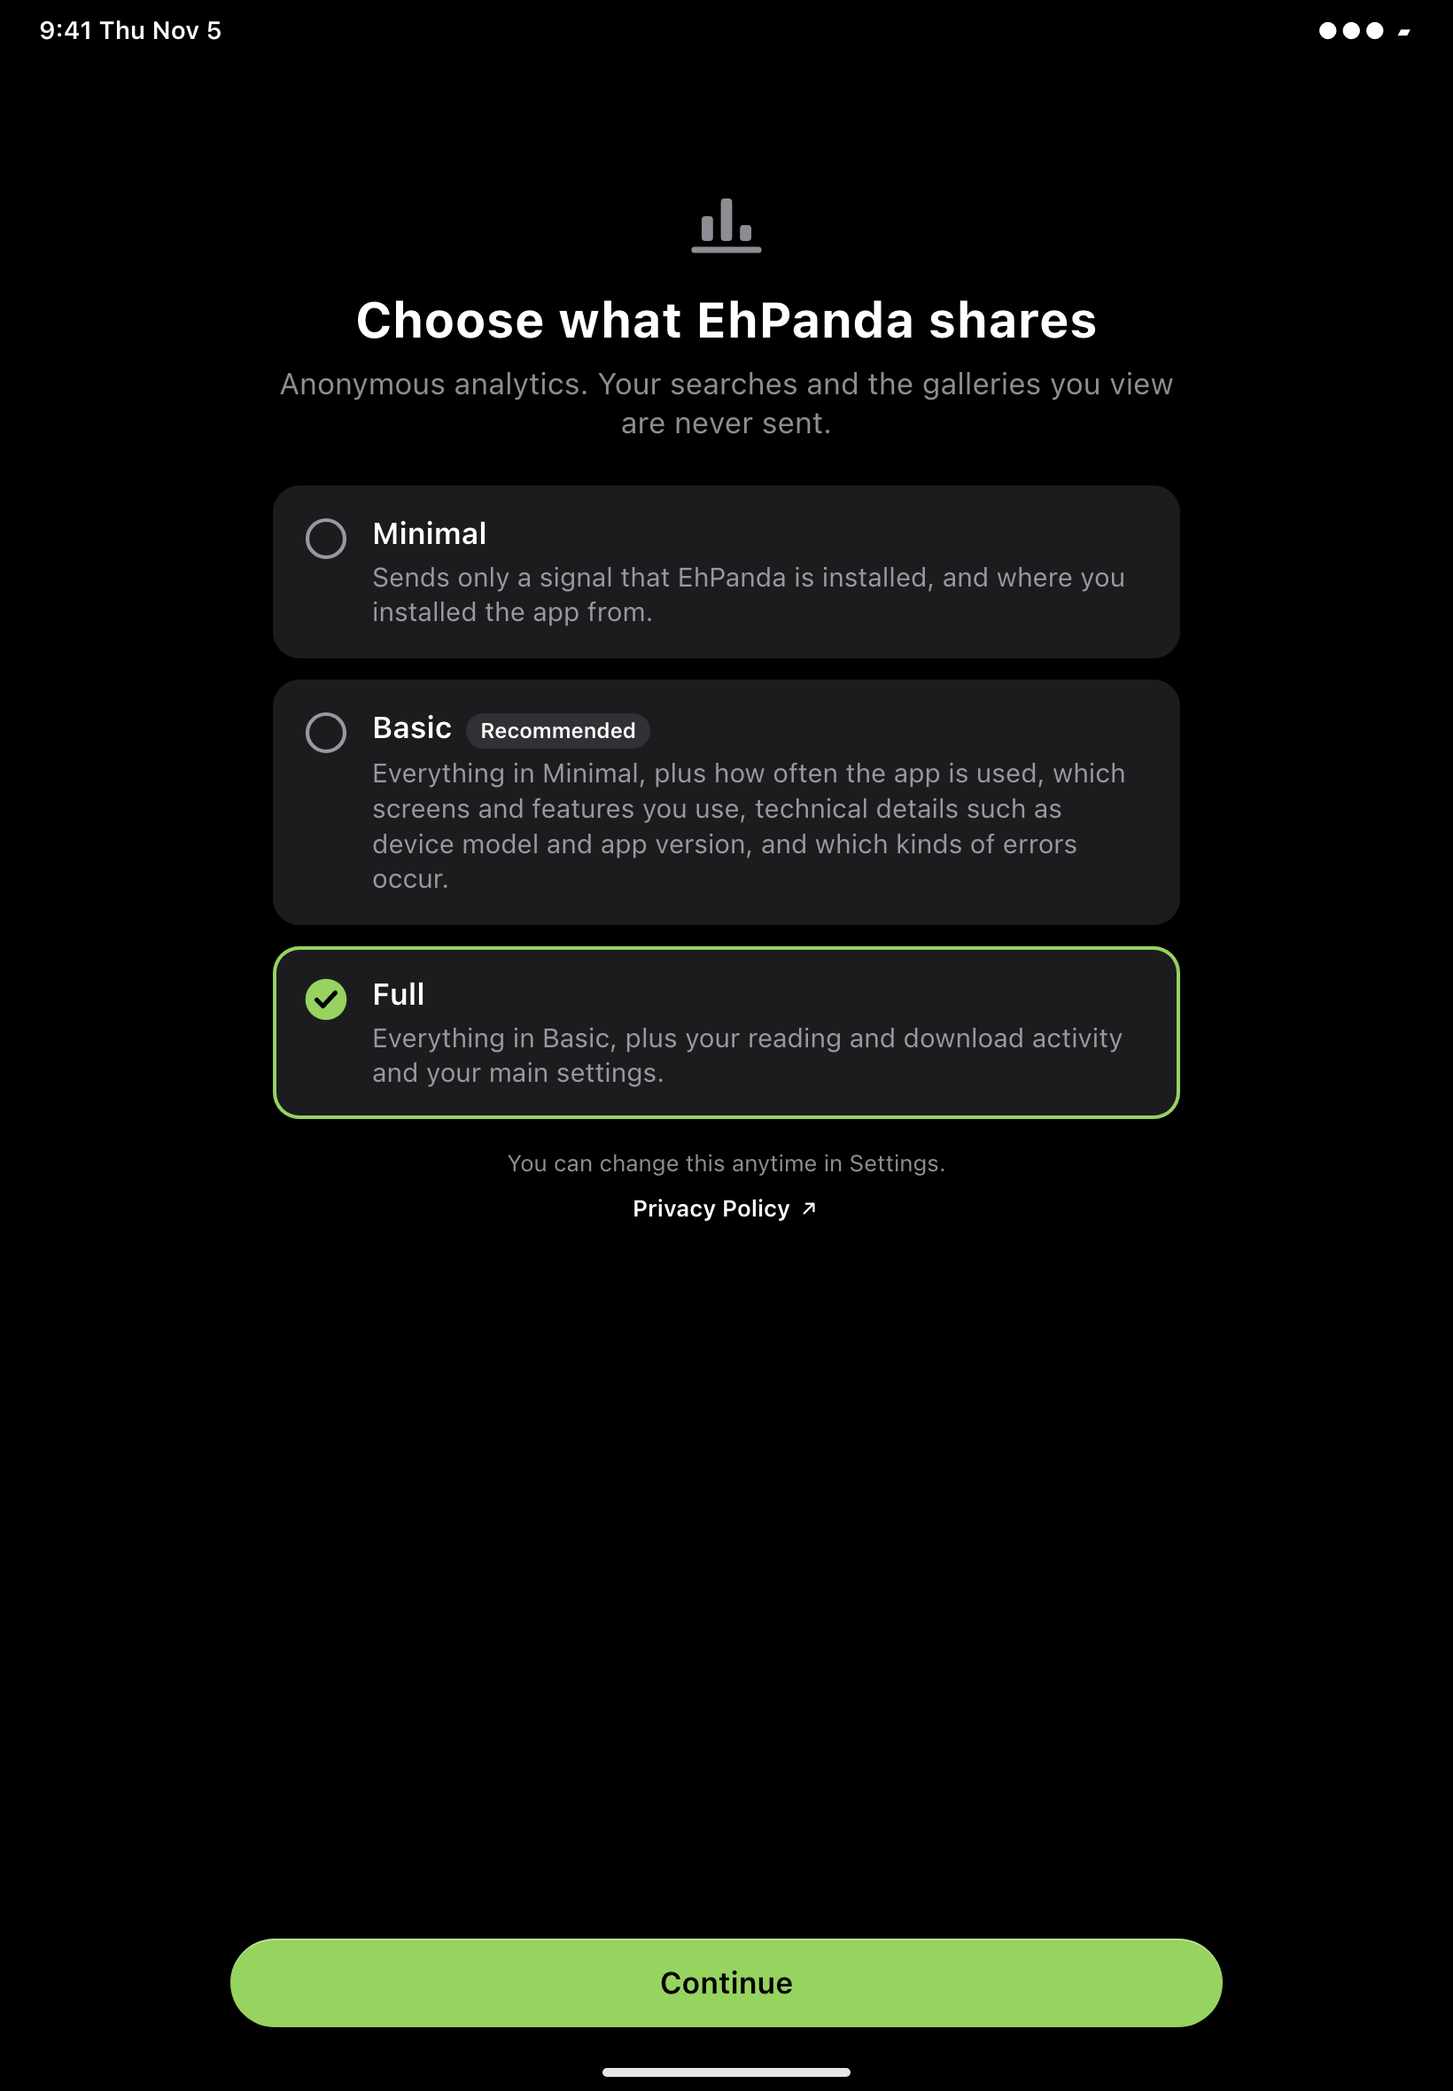
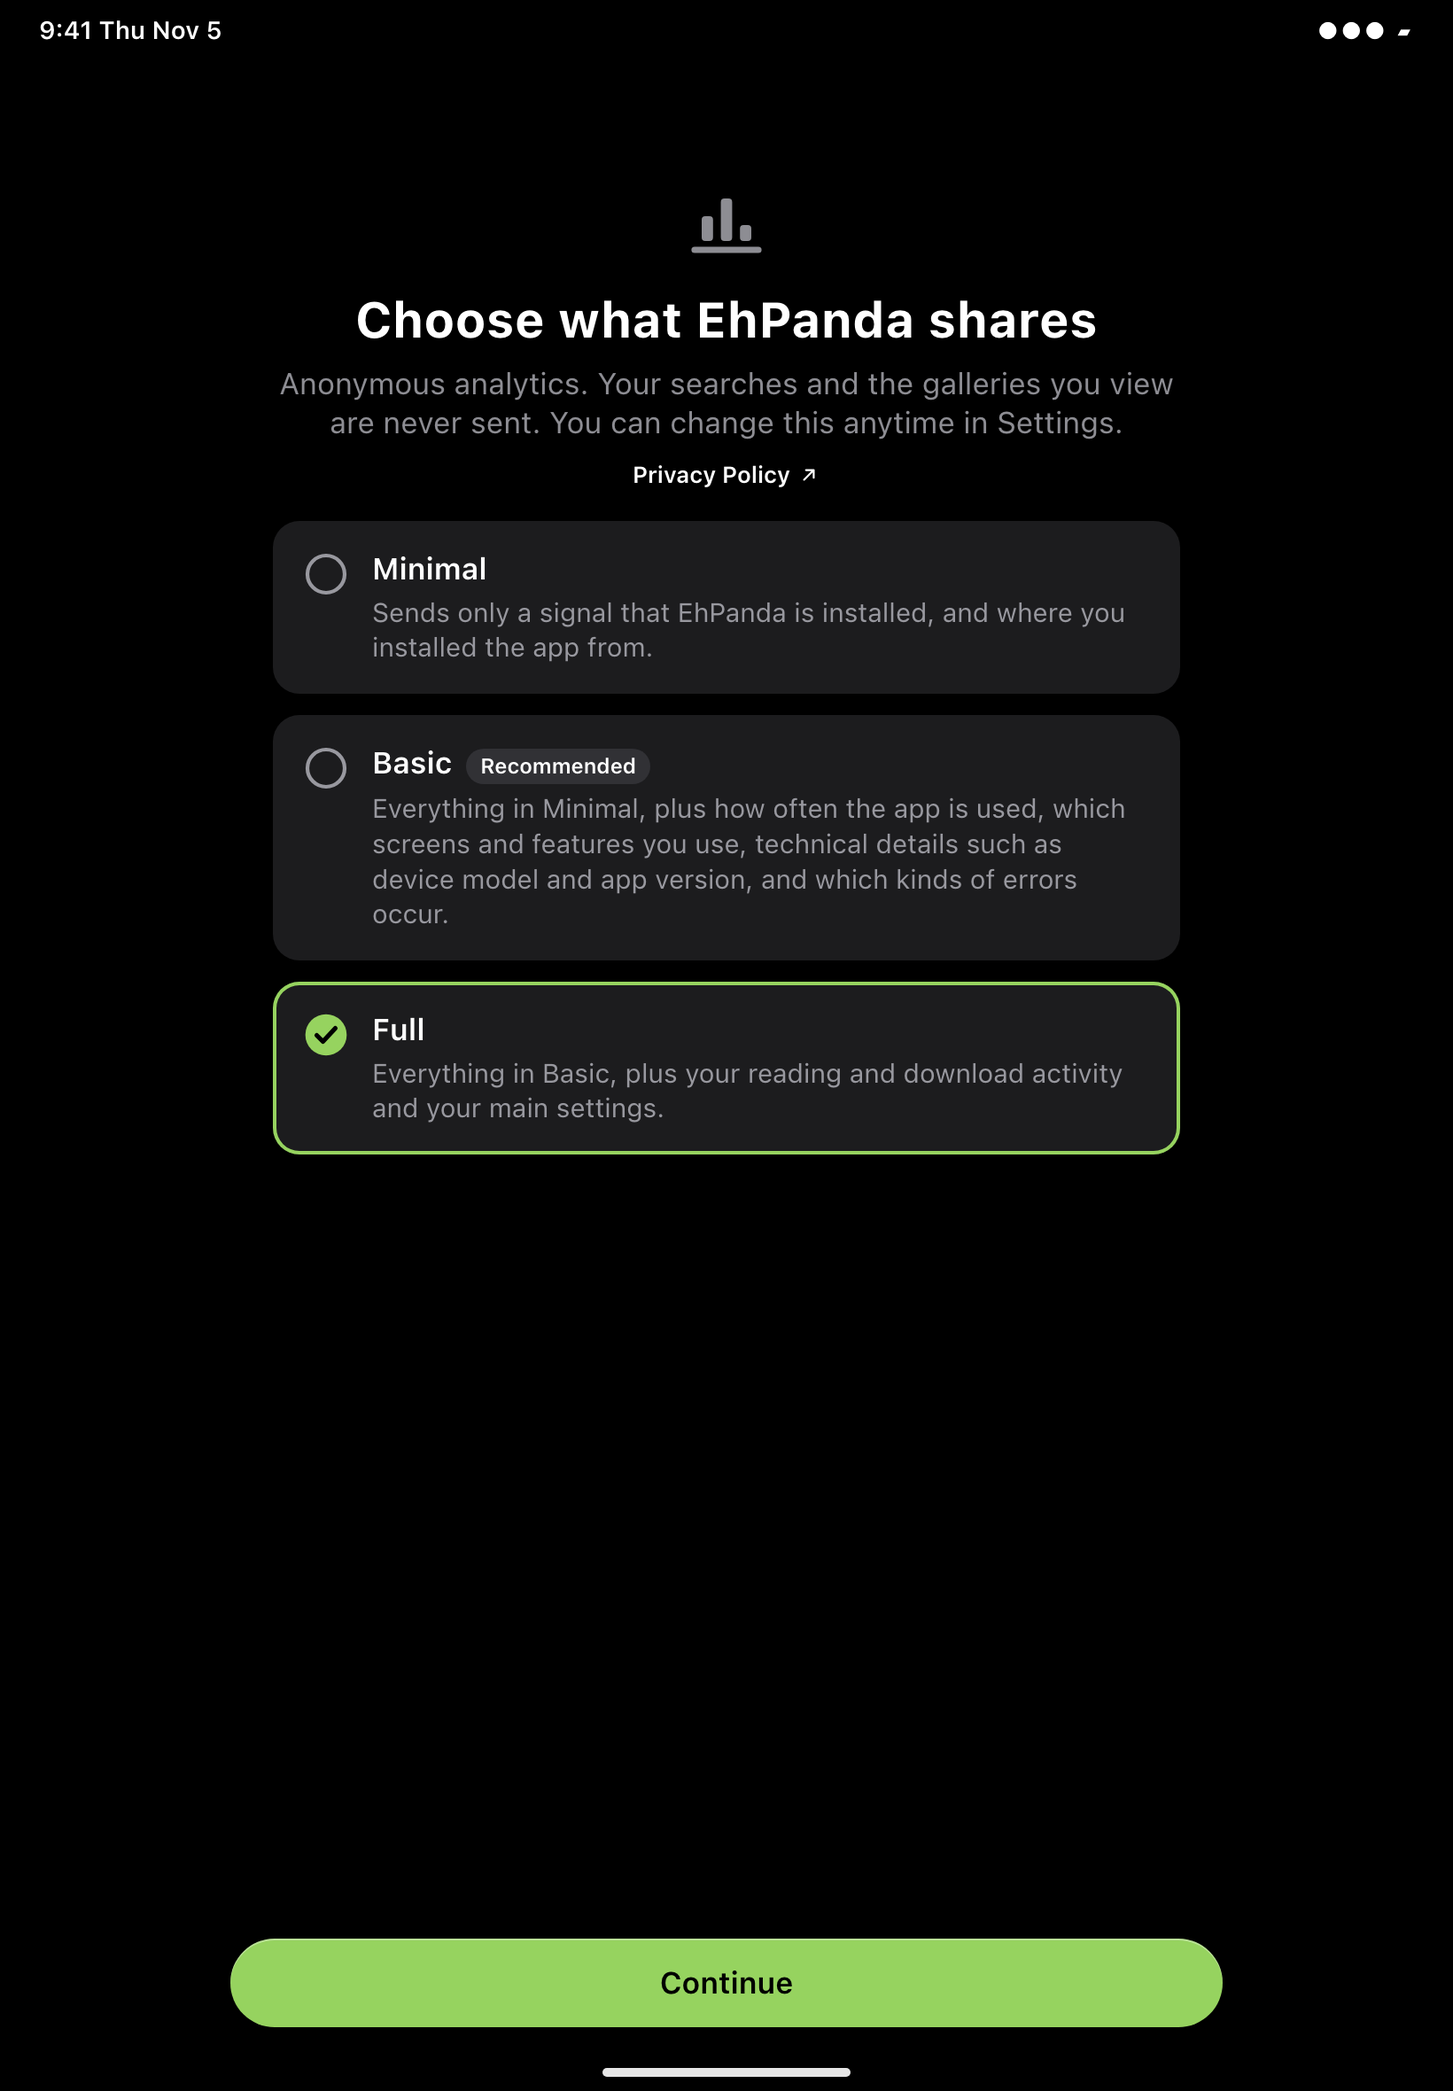
docs(18): join the analytics footer to the intro and move the privacy link up
Owner msg 1898, designer msg 1899 (D-06g): consent.footer follows consent.body in one paragraph, the Privacy Policy link sits under it above the cards. Layout only; no string changes. Refreshed mockups 03, 04, 18 and 21; 18-09 updated to match.

Changed region(s): [[0.1866, 0.1856, 0.8085, 0.5877]]

diff --git a/.planning/phases/18-in-app-3-0-readiness-age-wall-analytics-choice-comment-moder/18-09-PLAN.md b/.planning/phases/18-in-app-3-0-readiness-age-wall-analytics-choice-comment-moder/18-09-PLAN.md
@@ -30,7 +30,7 @@ must_haves:
     - "Every UI task here follows the committed `18-UI-SPEC.md` (the final spec, msg 1826, with the C-3 title rule) as the design contract; layout calls are the designer's and are not changed in execution (D-17, D-17a)."
     - "Until both answers exist, `RootView` renders `FirstLaunchGateView` instead of `TabBarView`; nothing of the app is rendered behind it, and it has no navigation bar, back, close or skip (UI-SPEC C-1, D-03, DD-06)."
     - "The age wall matches UI-SPEC C-2: icon, title, body, checkbox card with the approved declaration, Continue dimmed until ticked with `age_wall.continue_hint` as its VoiceOver hint, footnote always visible; no \"No\", no exit, no date picker, no age number, no \"18+\" (D-04, D-05)."
-    - "The analytics choice matches UI-SPEC C-3: three equal `ChoiceCard`s in the order Minimal, Basic, Full with none selected, Continue dimmed until one is picked, `consent.footer`, and a Privacy Policy link to `contact.privacy_policy`; Minimal's card shows the msg-1818 description (D-06a, D-06c) and Basic's and Full's cards the msg-1880 Revision 6 descriptions (D-06f); the intro under the title is the msg-1864 `consent.body`, \"Anonymous analytics. Your searches and the galleries you view are never sent.\" (D-06e)."
+    - "The analytics choice matches UI-SPEC C-3: three equal `ChoiceCard`s in the order Minimal, Basic, Full with none selected, Continue dimmed until one is picked, the intro and `consent.footer` joined in one `Text` as one paragraph with the Privacy Policy link to `contact.privacy_policy` right under it and above the cards (D-06g, owner msg 1898; nothing sits under the cards); Minimal's card shows the msg-1818 description (D-06a, D-06c) and Basic's and Full's cards the msg-1880 Revision 6 descriptions (D-06f); the intro under the title is the msg-1864 `consent.body`, \"Anonymous analytics. Your searches and the galleries you view are never sent.\" (D-06e)."
     - "D-06f (owner msg 1882): Basic is marked Recommended, not pre-selected. Initially no card is selected and Continue is disabled until a level is tapped; Basic's card, and only Basic's, shows `consent.level.recommended` as UI-SPEC C-3 specifies: a neutral grey capsule (`.caption.weight(.semibold)`, `.primary` text on `tertiarySystemFill`) in the name row after the name, never accent and the same whether Basic is selected or not, dropping under the name at accessibility sizes (`ViewThatFits`), and read by VoiceOver as part of the card (\"Basic, Recommended, ...\"). The order stays Minimal, Basic, Full."
     - "No request reaches the stub protocol between launch and the age wall's Continue (request log empty), and the tab content appears only after the analytics Continue."
     - "UI-SPEC C-3 title rule (owner msg 1822): the age wall and analytics titles are plain `Text` with no `\\n`, `.minimumScaleFactor`, `.lineLimit` or fixed width; in en, de, ko, ja, zh-Hans and zh-Hant at default size and AX5 their last line never holds a single word (zh/ja/ko: never fewer than two characters), checked on simulator screenshots."
@@ -148,7 +148,10 @@ IN-03 import moves back out with that use and the summary says so).
        in-content button and footnote at AX sizes, transitions with Reduce Motion forms), `AgeWallView` and
        `AnalyticsChoiceView` exactly per C-2/C-3. Titles: plain `Text(…)` with `.title.bold()`, centred,
        `.isHeader`; no `\n`, `.minimumScaleFactor`, `.lineLimit` or fixed width (C-3 line-break rule). Initial
-       VoiceOver focus on the title (`AccessibilityFocusState`).
+       VoiceOver focus on the title (`AccessibilityFocusState`). Analytics intro (C-3 items 3 to 5, D-06g, owner
+       msg 1898): `consent.body` and `consent.footer` in one `Text`, joined by one space in en, de and ko and by
+       nothing in ja, zh-Hans and zh-Hant (pick the separator from the resolved app language, not by editing either
+       string); the Privacy Policy link 8pt under it; the cards 16pt under the link; nothing under the cards.
     3. In `RootView`, render `FirstLaunchGateView` while `firstLaunch.step != .complete`, own `onOpenURL` there and
        send `.openURL` (18-02 queue).
     4. Extend `FirstLaunchGateTests` if the views needed new reducer actions (e.g. `declarationToggled`,
@@ -182,9 +185,11 @@ IN-03 import moves back out with that use and the summary says so).
        `xcrun xcresulttool export attachments` into a temporary directory outside the repo.
     3. Inspect every screenshot (48 = 2 devices × 6 locales × 2 sizes × 2 screens) and record in the summary a
        table: device, locale, size, screen, the title's last line as rendered, pass/fail. For the analytics screen
-       also record the intro's (`consent.body`, D-06e, owner msg 1864) line count: it is expected to fit two lines on
-       iPhone at default size in en (designer msgs 1846, 1850); German may wrap to three on the smallest iPhones,
-       which is acceptable; AX5 may wrap freely. An en intro longer than two lines on `$PHONE` at default size is
+       also record the intro's line count (`consent.body` and `consent.footer` joined as one paragraph, D-06e, D-06g,
+       owner msgs 1864, 1898): it is expected to fit three lines on iPhone at default size in en (designer msg 1899);
+       German may wrap to four on the smallest iPhones, which is acceptable; AX5 may wrap freely. Also check that
+       the Privacy Policy link is visible above the cards without scrolling at default size. An en intro longer than
+       three lines on `$PHONE` at default size is
        reported to the lead for the designer, not fixed by editing the string, scaling or truncating.
     4. A failure is not fixed by changing a string, adding `\n`, scaling or a fixed width. Try a layout-only fix the
        spec allows (for example the column's horizontal padding within the spacing scale); if none passes, stop and
@@ -196,7 +201,7 @@ IN-03 import moves back out with that use and the summary says so).
   </verify>
   <acceptance_criteria>
     - The summary table has 48 rows, all pass: no title's last line is a single word (zh/ja/ko: at least two characters), in any locale, at default size and AX5.
-    - The analytics rows record the intro's line count; en at default size on `$PHONE` is two lines (or the case is reported to the lead).
+    - The analytics rows record the intro's line count; en at default size on `$PHONE` is three lines and the Privacy Policy link shows above the cards without scrolling (or the case is reported to the lead).
     - No screenshot is committed.
   </acceptance_criteria>
   <done>Both first-launch titles break acceptably in every shipped language and text size.</done>

diff --git a/.planning/phases/18-in-app-3-0-readiness-age-wall-analytics-choice-comment-moder/18-UI-SPEC.md b/.planning/phases/18-in-app-3-0-readiness-age-wall-analytics-choice-comment-moder/18-UI-SPEC.md
@@ -91,7 +91,7 @@ Points, multiples of 4. Values marked "existing" are the app's own and are not c
 | Token | Value | Usage |
 |-------|-------|-------|
 | xs | 4pt | Level name → level description; text → inline symbol |
-| sm | 8pt | Title → body; Continue bar top inset; between Show and Unblock; footnote → Privacy Policy link |
+| sm | 8pt | Title → body; body → Privacy Policy link (analytics); Continue bar top inset; between Show and Unblock |
 | md-12 | 12pt | Symbol → text inside cards; between level cards; Continue → footnote |
 | md | 16pt | Card inner padding; bottom bar bottom inset (above the safe area); list row padding (system) |
 | lg | 24pt | Screen side margins on the first-launch screens; icon → title; body → cards (analytics) |
@@ -123,7 +123,7 @@ the system scales between.
 | Button | `.headline` | 17pt | 53pt | semibold | Continue |
 | Collapsed-row label | `.subheadline` | 15pt | 49pt | regular, `.secondary` | "Comment from a user you've blocked" |
 | Small pill buttons | `.subheadline` | 15pt | 49pt | semibold | Show, Unblock, Hide (`.controlSize(.small)` bordered) |
-| Footnote | `.footnote` | 13pt | 44pt | regular, `.secondary` | Age-wall footnote, `consent.footer`, Settings footers |
+| Footnote | `.footnote` | 13pt | 44pt | regular, `.secondary` | Age-wall footnote, Settings footers (`consent.footer` now joins the analytics body, C-3) |
 | Link | `.footnote` | 13pt | 44pt | semibold, `.primary` | Privacy Policy on the analytics screen |
 | Empty state title | `ContentUnavailableView` default | — | — | system | Blocked Users empty |
 
@@ -276,8 +276,15 @@ your mind, and a shared Continue keeps both first-launch screens one pattern.
    locale's string, no `.minimumScaleFactor`, no `.lineLimit`, no fixed width on the title. Acceptance: in every
    locale and every text size, the title's last line holds at least two words (zh/ja/ko: at least two characters).
    Same rule for the age wall title (C-2) and the Blocked Users empty-state title.
-3. 8pt · Body `consent.body`, `.body`, `.secondary`, centred.
-4. 24pt · **Three `ChoiceCard`s**, order Minimal, Basic, Full (owner's order; Minimal replaces None, owner msg 1795), 12pt apart, all identical in size rules,
+3. 8pt · Body: **`consent.body` and `consent.footer` in one `Text`**, as one paragraph (owner msg 1898: the footer sat
+   below the cards, off screen on most phones). Join with one space in en/de/ko, no space in ja/zh-Hans/zh-Hant
+   (both strings end in full-width punctuation there). `.body`, `.secondary`, centred. Both strings stay as
+   approved; nothing is reworded. iPhone default size: 3 lines in en.
+4. 8pt · Privacy Policy link, moved up from below the cards: `Link(consent.privacy_link, destination: privacyURL)` with a trailing `arrow.up.right` (`.imageScale(.small)`,
+   AX-hidden) — `.footnote.weight(.semibold)`, `.primary`, centred, 44pt min hit height. Opens in the default browser
+   (same as every other external link in the app). Allowed here: the age wall is already confirmed.
+   VoiceOver reads it right after the body, before the cards.
+5. 16pt · **Three `ChoiceCard`s**, order Minimal, Basic, Full (owner's order; Minimal replaces None, owner msg 1795), 12pt apart, all identical in size rules,
    type and colour while unselected — the only difference is Basic's Recommended label below; no different weight or colour.
    - Card: `secondarySystemGroupedBackground`, radius 15, padding 16, full width, whole card tappable,
      `.hoverEffect(.highlight)` as C-2.
@@ -298,11 +305,7 @@ your mind, and a shared Continue keeps both first-launch screens one pattern.
    - **Order stays Minimal, Basic, Full** (layout call, Ato msg 1883). Reason: the descriptions are a ladder
      ("Everything in Minimal, plus…", "Everything in Basic, plus…") that only reads top-down in that order, and the
      label is what makes Basic stand out, not its position.
-5. 16pt · `consent.footer`, `.footnote`, `.secondary`, centred.
-6. 8pt · `Link(consent.privacy_link, destination: privacyURL)` with a trailing `arrow.up.right` (`.imageScale(.small)`,
-   AX-hidden) — `.footnote.weight(.semibold)`, `.primary`, centred, 44pt min hit height. Opens in the default browser
-   (same as every other external link in the app). Allowed here: the age wall is already confirmed.
-7. Continue in the bar (C-1) — `.disabled(selection == nil)`. No hint string is approved for this screen, so none.
+6. Continue in the bar (C-1) — `.disabled(selection == nil)`. No hint string is approved for this screen, so none.
 
 On Continue: store the level, start the SDK only if Basic/Full (DD-09), crossfade to the app.
 

diff --git a/.planning/phases/18-in-app-3-0-readiness-age-wall-analytics-choice-comment-moder/18-CONTEXT.md b/.planning/phases/18-in-app-3-0-readiness-age-wall-analytics-choice-comment-moder/18-CONTEXT.md
@@ -5,7 +5,7 @@
 **Amended:** 2026-11-05, during planning: D-06a, D-06b, DD-09a (owner msgs 1795, 1796, 1805; analytics "Minimal"),
 D-06c (owner msgs 1812, 1818; the install signal carries the install source), D-06d (owner msgs 1830, 1839; Basic's
 description builds on Minimal), D-06e (owner msgs 1844, 1854, 1864; the short analytics intro), D-06f (owner msgs 1869, 1880, 1882; screens and
-features move to Basic, Basic marked Recommended), D-14a (owner msg 1795; Blocked Users in Account settings), D-17a (UI-SPEC delivered, msgs 1791, 1803, 1807, 1820, 1826, 1843, 1866, 1886). The
+features move to Basic, Basic marked Recommended), D-06g (owner msg 1898; the analytics footer joins the intro), D-14a (owner msg 1795; Blocked Users in Account settings), D-17a (UI-SPEC delivered, msgs 1791, 1803, 1807, 1820, 1826, 1843, 1866, 1886, 1899). The
 original decisions are kept as written; where an amendment differs, the amendment wins.
 **Sources:** the discussion prep [18-DISCUSSION-PREP.md](18-DISCUSSION-PREP.md) (locked decisions L1 to L46, gray areas GA-1 to GA-8, developer defaults, outside blockers, split proposal); the owner's answers to card msg 1748 (owner msg 1753) and card msg 1759 (owner msg 1765); the owner's copy approvals (msgs 1767, 1780). Where the owner answered, the answer overrides the prep. All dates are UTC.
 
@@ -215,6 +215,12 @@ Owner decisions are binding. "Prep L*n*" and "GA-*n*" refer to [18-DISCUSSION-PR
     selected) and the same whether Basic is selected or not; it drops under the name at accessibility sizes; VoiceOver
     reads it as part of the card ("Basic, Recommended, ..."). The Settings picker is unchanged (UI-SPEC C-9: the three
     names only, no label); its footer shows the Revision 6 descriptions.
+- **D-06g (layout only; owner msg 1898; designer msg 1899):** on the analytics choice `consent.footer` ("You can
+  change this anytime in Settings.") sat under the cards, off screen on most phones. It now follows `consent.body` in
+  the same `Text`, as one paragraph: joined by one space in en, de and ko and with no space in ja, zh-Hans and
+  zh-Hant. The Privacy Policy link moves up under that paragraph (8pt), and the cards follow 16pt below the link;
+  nothing sits under the cards. No string changes. The en intro is now expected to wrap to three lines on iPhone at
+  default size. UI-SPEC C-3 items 3 to 6 are the contract.
 - **D-07:** Settings follows the copy file's "Settings (replaces today's toggle)" section:
   - The row label `shareAnalyticsData` stays, now as a picker with the three level labels.
   - The footer shows the selected level's description.
@@ -282,7 +288,8 @@ Owner decisions are binding. "Prep L*n*" and "GA-*n*" refer to [18-DISCUSSION-PR
   Basic line (D-06d, owner msg 1839) into the spec and refreshed mockups 03, 04, 12 and 21 in msg 1843, and took
   the short intro (D-06e, owner msg 1864) into the spec and refreshed mockups 03, 04 and 21 in msg 1866, and added Basic's Recommended label and the Revision 6
   lines (D-06f, owner msgs 1880, 1882; order stays Minimal, Basic, Full) and refreshed mockups 03, 04, 12, 18 and 21
-  in msg 1886: [18-UI-SPEC.md](18-UI-SPEC.md) with 24 mockups in `mockups/`. It is the
+  in msg 1886, and joined `consent.footer` to the intro with the Privacy Policy link under it, above the cards
+  (D-06g, owner msg 1898), refreshing mockups 03, 04, 18 and 21 in msg 1899: [18-UI-SPEC.md](18-UI-SPEC.md) with 24 mockups in `mockups/`. It is the
   design contract for every UI task; `/gsd-ui-phase` is not run. His layout calls: a separate Continue on the
   analytics choice, dimmed until a level is picked; a `…` menu on each comment in the list with the same items on
   long-press and as VoiceOver actions, long-press only on the Detail strip; Report, Block and the posting warning are
